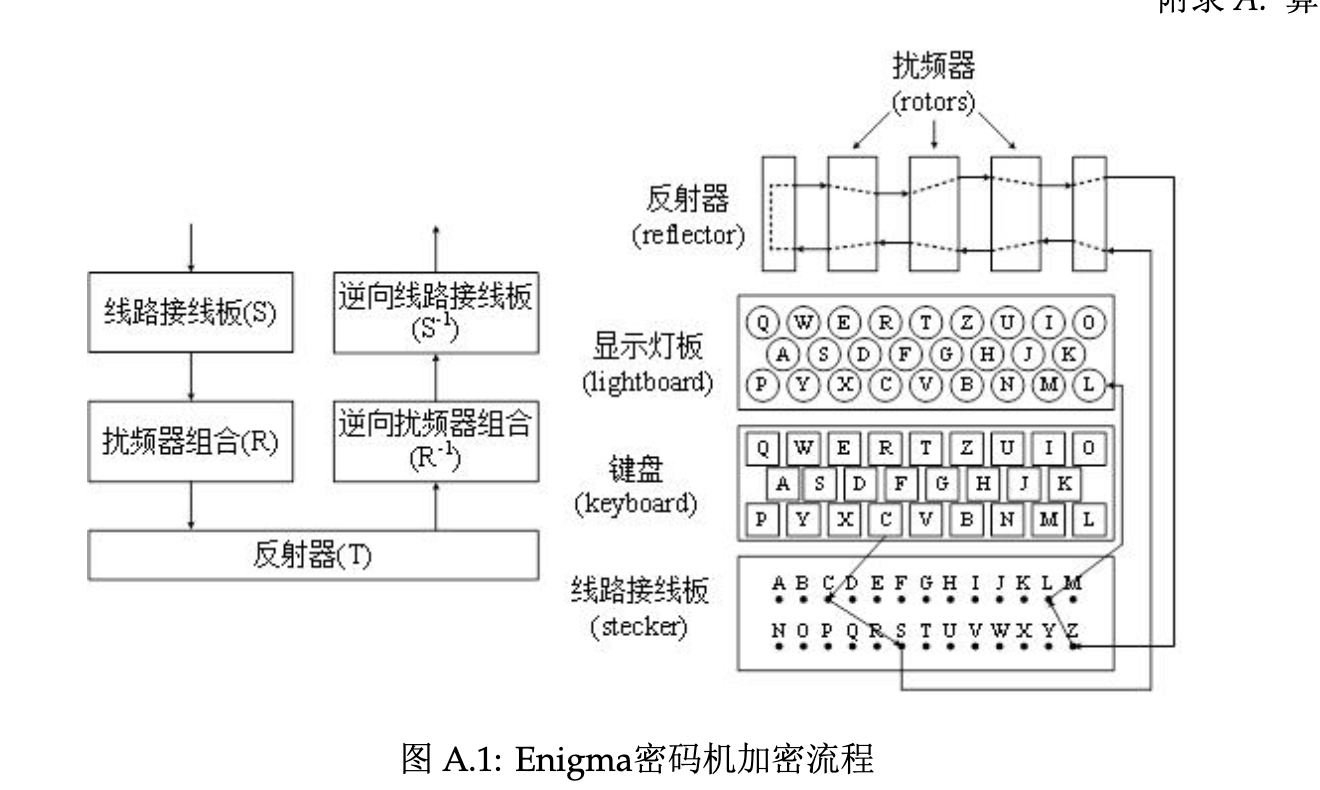
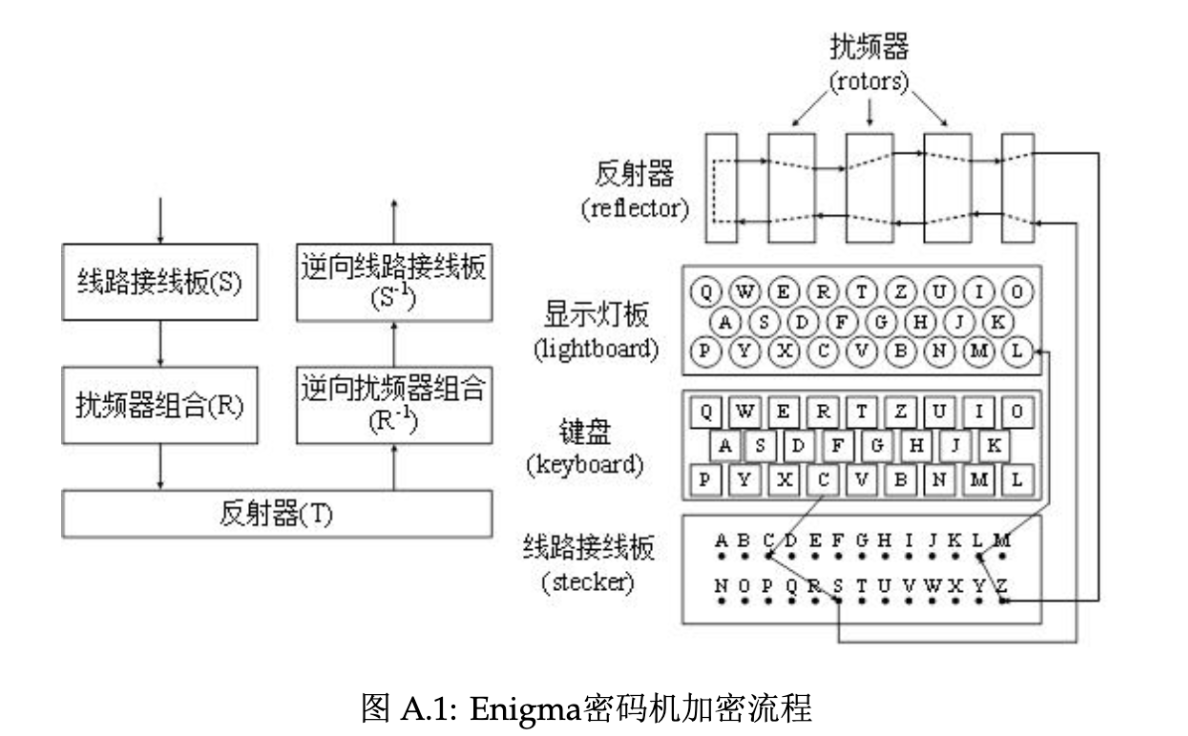
完成实验报告

Changed region(s): [[0.0311, 0.0312, 0.9343, 0.875], [0.3114, 0.9375, 0.6852, 1.0], [0.8721, 0.0, 0.9966, 0.0312]]

diff --git a/lab1/decrypt.py b/lab1/decrypt.py
@@ -1,23 +1,3 @@
-'''
-给定如下明密文数据流, 中的三个转子和反射器的定义不变, 尝试恢复密钥K1和K2。(结果可能不唯一)
-明文:  HELLOWORLD…
-密文: …WELLDONEEFGHIJ…
-
-已知K1中接线板的接线数量最多不超过六条;
-对于K1中没有信息支撑的接线板情况, 可以考虑使用-1表示未知: 
-例如[0,2,1,-1,...]表示A不接线(自身到自身), B与C相连, -1则表示字母D为自由(是否接线且与哪个字母接线未知)。
-
-
-扰频器组合(固定3个转子, 无需从5个中选择3个)
-快速转子I = [0, 18, 24, 12, 10, 20, 8, 6, 14, 2, 11, 15, 22, 3, 25, 7, 17, 13, 5, 1, 23, 9, 16, 21, 19, 4]
-即快速转子的表格中左侧一列为0, 1, 2, …, 25, 右侧一列0, 18, 24, …, 4; 下同
-中速转子II = [0, 10, 4, 2, 8, 1, 18, 20, 22, 19, 13, 6, 17, 5, 9, 3, 24, 14, 12, 25, 21, 11, 7, 16, 15, 23]
-
-反射器
-T = [10, 20, 14, 8, 25, 15, 16, 21, 3, 18, 0, 23, 13, 12, 2, 5, 6, 19, 9, 17, 1, 7, 24, 11, 22, 4]
-即a与k相连, b与u相连, ……
-'''
-
 import string
 from copy import *
 from collections import defaultdict
@@ -25,7 +5,6 @@ from itertools import permutations
 def crypt_once(I, II, III, T, st0, st1, st2, ch):
     """
     在指定三个转子位置下，只加密一个字符。
-    不经过接线板 K1，不自动转动转子。
     Args:
         I: 快速转子
         II:   中速转子
@@ -242,22 +221,22 @@ if __name__=="__main__":
             print("通过环路及与环路相关的接线板设置无冲突, 猜测的K2密钥个数: ",len(guess_K2_K1))
             #带回去推出其他接线板
             final_guess = {}
-            for K2 in guess_K2_K1:
-                for K1 in guess_K2_K1[K2]:
+            for K2 in guess_K2_K1: #固定K2
+                for K1 in guess_K2_K1[K2]:  #从K2中取出K1
                     K1_now = K1.copy()
                     ok = True
                     flag = True
-                    while flag and ok:
+                    while flag and ok: #ok是用来看K1有没有矛盾的，有矛盾直接退出，flag就是看有没有更新状态
                         flag = False
-                        for loc,pair in enumerate(zip(crib,m)):
-                            known = set(pair) & set(K1_now)
-                            if len(known) != 1:
+                        for loc,pair in enumerate(zip(crib,m)):  #明密文对
+                            known = set(pair) & set(K1_now) #取交集，就是找K1里已经有的字母
+                            if len(known) != 1: #pair里面就两个字母，如果不等于1，那就是2，就是说都知道，那就不用回复了
                                 continue
                             known_char = list(known)[0]
-                            unknown_char = pair[0] if pair[1] == known_char else pair[1]
-                            plug = crypt_once(I,II,III,T,K2[0]-(loc%26),K2[1],K2[2],K1_now[known_char])
+                            unknown_char = pair[0] if pair[1] == known_char else pair[1] #看明密文里面那个不知道
+                            plug = crypt_once(I,II,III,T,K2[0]-(loc%26),K2[1],K2[2],K1_now[known_char]) #计算中间状态
                             if unknown_char in K1_now:
-                                if K1_now[unknown_char] != plug:
+                                if K1_now[unknown_char] != plug: #这个中间状态和不知道的那个是相连的，如果不想等，就矛盾
                                     ok = False
                                     break
                             elif plug in K1_now:
@@ -265,13 +244,14 @@ if __name__=="__main__":
                                     ok = False
                                     break
                             else:
-                                K1_now[unknown_char] = plug
+                                K1_now[unknown_char] = plug #如果两个在K1里都没有记录，那就直接添加
                                 K1_now[plug] = unknown_char
-                                flag = True
+                                flag = True  #因为获取了K1的新信息，所以flag=1，需要重新看一遍
+                        #如果没有获取新信息，说明没法再更新了，直接退出
                     if ok:
                         if K2 not in final_guess:
                             final_guess[K2] = []
-                        final_guess[K2].append(K1_now)
+                        final_guess[K2].append(K1_now)  #如果没有矛盾就加进去
             print("通过环路及所有可能的接线板无冲突, 猜测的K2密钥个数: ",len(final_guess))
             print("其中接线板总数不超过6条的密钥为: ")
             for K2 in final_guess:

diff --git a/lab1/report/main.tex b/lab1/report/main.tex
@@ -35,8 +35,6 @@
     \item 江李阳（202400460042）：任务一、任务三的实现以及报告主体的撰写。
     \item 王健一（202400460037）：任务二的实现以及报告的补充、修改与整合。
 \end{itemize}
-% 前言
-\input{content/0introduction.tex}
 % 实验环境
 \input{content/1environment}
 
@@ -51,7 +49,7 @@
 
 \input{content/4summary.tex}
 \input{content/5appendix.tex}
-
+\input{content/6note.tex}
 
 
 % \section{参考资料}

diff --git a/lab1/report/content/6note.tex b/lab1/report/content/6note.tex
@@ -1,4 +1,4 @@
-\section{前言}
+\section{后记}
 截止2026年9月16日,openAI已经攻克多个数学难题,其中甚至包括千禧年难题,那么在当前这个环境的冲击下,
 不得不反思我们所做的工作的意义,诚然,本次实验利用gpt6就能很快作出.现在事实上进入了一个产出远远大于消化的时代,
 我们难道就只是做一个在电脑前yes or no的机器人?
